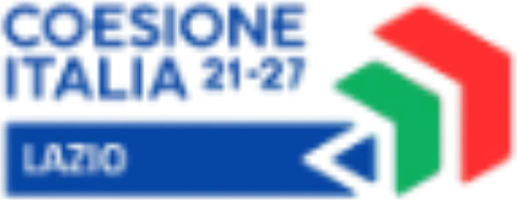
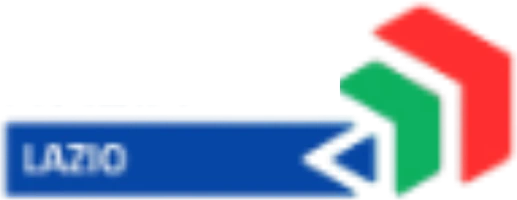
footer: i marchi FESR in negativo, senza pannello
Il pannello bianco era tecnicamente corretto e visivamente un cerotto: un
rettangolo bianco in fondo a una pagina scura. I marchi ora stanno
direttamente sul fondo, nelle versioni negative.

La premessa da cui ero partito era sbagliata. Guardando i quattro marchi uno
per uno sullo scuro, i marchi colorati si leggono tutti benissimo — la freccia
tricolore, la bandiera, l'emblema della Repubblica, l'ottagono del Lazio. A
sparire e' solo il lettering blu. Ed e' esattamente la parte che i kit
istituzionali forniscono in versione negativa.

scripts/fesr.mjs, `npm run fesr`, ricostruisce quelle versioni dal positivo.
Non tocca nessun colore dei marchi: porta al bianco solo le scritte, e
aggiunge alla bandiera europea il filo bianco che le sue regole chiedono su
fondo colorato.

I confini fra marchio e scritta sono misurati, non stimati. Le proporzioni a
occhio avevano gia' prodotto un puntino bianco sul bordo della freccia: ora il
confine e' il primo pixel rosso o verde, e lo stacco fra lettering e barra e'
la prima riga vuota.

Due cose scoperte misurando, che a occhio avrei sbagliato:
- la parola «LAZIO» dentro la barra blu non e' bianca, e' un buco a opacita'
  parziale: su carta il foglio la rende bianca, sullo scuro sparisce. Va
  composta sopra il bianco con la formula vera, non riempita con una soglia,
  o l'antialias si sgrana;
- concatenare trim e resize nella stessa pipeline sharp lascia decidere a
[…]

Changed region(s): [[0.0, 0.0, 0.619, 0.51], [0.619, 0.39, 0.6809, 0.48]]

diff --git a/src/styles/concept.css b/src/styles/concept.css
@@ -343,24 +343,18 @@ a.org__name:hover{color:var(--magenta)}
 /* Il pannello chiaro e' obbligato: i marchi istituzionali non si ricolorano,
    e sull'inchiostro il blu su nero non si legge. */
 /*
- * Il pannello chiaro e' obbligato: i marchi istituzionali non si ricolorano,
- * e sull'inchiostro il blu su nero non si legge.
+ * I marchi stanno direttamente sul fondo della pagina, senza pannello: sono
+ * nella versione negativa, con il lettering bianco, che e' quella prevista per
+ * i fondi scuri. Vedi scripts/fesr.mjs.
  *
- * I quattro marchi vanno a capo invece di stare per forza in fila: su un
- * telefono una fila sola li ridurrebbe a venti pixel d'altezza.
+ * Vanno a capo invece di stare per forza in fila: su un telefono una fila sola
+ * li ridurrebbe a venti pixel d'altezza.
  */
 .foot__fesr-loghi {
-  background: #FFFFFF;
-  border-radius: 6px;
-  padding: clamp(14px, 1.6vw, 20px) clamp(16px, 1.8vw, 26px);
-  /* Il pannello aderisce ai marchi invece di stendersi: bianco vuoto a destra
-     dei loghi sembrerebbe un errore di impaginazione. */
-  width: fit-content;
-  max-width: 100%;
   display: flex;
   flex-wrap: wrap;
   align-items: center;
-  gap: clamp(16px, 2.4vw, 34px);
+  gap: clamp(20px, 2.8vw, 40px);
 }
 .foot__fesr-loghi img {
   /* Stessa altezza per tutti: cosi' l'emblema europeo non e' mai piu' piccolo
@@ -372,7 +366,9 @@ a.org__name:hover{color:var(--magenta)}
 }
 
 .foot__fesr-testo {
-  margin: 16px 0 0;
+  /* Senza il bordo del pannello a fare da stacco, la frase ha bisogno di piu'
+     aria sotto i marchi, o sembra attaccata all'ultimo. */
+  margin: clamp(20px, 2.4vw, 28px) 0 0;
   max-width: 68ch;
   font-size: 13px;
   line-height: 1.55;

diff --git a/src/assets/fesr/README.md b/src/assets/fesr/README.md
@@ -1,7 +1,9 @@
 # Marchi della visibilità FESR
 
-Quattro file, uno per marchio, nel footer di ogni pagina. L'ordine in pagina è
-quello alfabetico dei nomi, che è anche quello del documento originale.
+Quattro file, uno per marchio, nel footer di ogni pagina. **Sono le versioni
+negative**: lettering bianco, per il fondo scuro del sito. Si rigenerano con
+`npm run fesr`, che li ricava dal file consegnato in
+`brand/fesr/loghi-fesr-originale.png`. Non vanno modificati a mano.
 
 | | |
 |---|---|
@@ -10,39 +12,62 @@ quello alfabetico dei nomi, che è anche quello del documento originale.
 | `03-repubblica-italiana.webp` | Repubblica Italiana |
 | `04-regione-lazio.webp` | Regione Lazio |
 
-## Perché quattro file e non la striscia originale
+## Perché non la striscia originale
 
-Il file consegnato, in `brand/fesr/loghi-fesr-originale.png`, è una striscia
-unica con i quattro marchi in fila e la frase già composta dentro
-l'immagine. Non va bene per una pagina web, per due motivi:
+Il file consegnato è una striscia unica con i quattro marchi in fila e la
+frase già composta dentro l'immagine. Due cose non andavano:
 
-- la striscia è in **15,7:1**: su un telefono largo 390px starebbe in venti
+- la striscia è in **15,7:1**. Su un telefono largo 390px starebbe in venti
   pixel d'altezza e l'emblema europeo non si leggerebbe. Separati, i marchi
   vanno a capo e restano leggibili;
-- la frase cotta dentro il PNG è in un carattere che non è quello della
-  landing, e non si può selezionare, tradurre o leggere con uno screen reader.
-  In pagina è testo vero, da `footer.fesr` nei dizionari.
+- la frase cotta dentro il PNG è in un carattere estraneo alla landing, non si
+  seleziona, non si traduce e uno screen reader non la vede. In pagina è testo
+  vero, da `footer.fesr` nei dizionari.
 
-## Come sono stati ricavati
+## Perché la versione negativa
 
-Dalla striscia originale, ritagliando la banda dei marchi (y 1481–1763 nel
-PNG a 6000x3375), poi ogni marchio per la sua colonna, rifilato sul contenuto
-e portato a 200px di altezza. In pagina sono tutti alla **stessa altezza**:
-è il modo standard di allineare marchi diversi, e tiene l'emblema europeo
-grande quanto gli altri.
+Sul fondo scuro i **marchi colorati si leggono benissimo**: la freccia
+tricolore, la bandiera, l'emblema della Repubblica, l'ottagono del Lazio. A
+sparire è solo il **lettering blu**, che su quasi nero diventa invisibile. La
+versione negativa, bianca, è quella che i kit istituzionali prevedono proprio
+per questo caso.
 
-## Cosa non si può fare
+Il primo tentativo era stato mettere i positivi su un pannello bianco. Tecnicamente
+corretto, visivamente un cerotto: un rettangolo bianco in fondo a una pagina
+scura. Il negativo è la strada giusta.
 
-I marchi istituzionali **non si ricolorano e non si invertono**. Per questo
-stanno su un pannello bianco invece che direttamente sul fondo scuro del
-footer: sull'inchiostro «COESIONE ITALIA» e «REGIONE LAZIO» sono blu scuro su
-quasi nero e spariscono.
+## Cosa lo script tocca e cosa no
+
+**Non tocca nessun colore dei marchi.** Cambia solo il colore delle scritte e
+aggiunge alla bandiera europea il filo bianco che le sue regole chiedono quando
+sta su un fondo colorato (spessore: un venticinquesimo dell'altezza).
+
+Tre casi particolari, tutti **misurati** dallo script e non stimati a occhio —
+le proporzioni a occhio avevano già prodotto un puntino bianco sul bordo della
+freccia tricolore:
+
+- **Coesione Italia**: il confine con la freccia è il primo pixel rosso o
+  verde; lo stacco fra lettering e barra è la prima riga vuota.
+- **Unione europea** e **Regione Lazio**: il confine fra marchio e scritta è
+  lo stacco fra le due bande di contenuto.
+- La parola «LAZIO» dentro la barra blu **non è bianca**: è un buco a opacità
+  parziale, che su carta il foglio rende bianco e su fondo scuro sparisce. Lo
+  script compone quella zona sopra il bianco, con la formula vera e non con
+  una soglia, così l'antialias resta pulito.
+
+**Repubblica Italiana non viene toccato**: l'emblema è già leggibile sullo
+scuro così com'è.
 
 ## Da verificare con Lazio Innova
 
-La dimensione minima dell'emblema europeo. Il regolamento parla di un emblema
-«ben visibile» e, per i siti web, non più piccolo del più grande degli altri
-loghi presenti. In pagina i marchi sono alti 30–40px, mentre i loghi dei
-promotori nella sezione «Un programma di» arrivano a 88px. Se la
-rendicontazione chiede una proporzione diversa, qui si cambia una riga di
-`height` in `concept.css`.
+Due cose, entrambe fuori dalla mia portata:
+
+1. **La versione negativa ufficiale.** Quella in uso è ricostruita dal
+   positivo. I kit di visibilità la contengono quasi sempre: se arriva, si
+   sostituiscono i quattro file e si può togliere la ricostruzione dallo
+   script.
+2. **La dimensione minima dell'emblema europeo.** Il regolamento chiede un
+   emblema «ben visibile» e, per i siti, non più piccolo del più grande degli
+   altri loghi presenti. Qui i marchi sono alti 30–40px, mentre i loghi dei
+   promotori nella sezione «Un programma di» arrivano a 88px. Si cambia la
+   riga `height` di `.foot__fesr-loghi img` in `concept.css`.

diff --git a/CLAUDE.md b/CLAUDE.md
@@ -28,8 +28,10 @@ Una pagina di attrazione, non una pagina informativa. La candidatura e il regola
    Italia, Unione europea, Repubblica Italiana, Regione Lazio — e la formula
    «Cofinanziato dall'Unione europea, PR FESR Lazio 2021–2027, attraverso Lazio
    Innova (LAZIO Venture 2)». La formula non si riscrive: è quella del
-   programma. I marchi non si ricolorano né si invertono, per questo stanno su
-   un pannello bianco. Dettagli e cosa resta da verificare in
+   programma. I marchi stanno **direttamente sul fondo scuro**, nelle versioni
+   negative generate da `npm run fesr`: niente pannello bianco, che era un
+   cerotto. Dei marchi non si cambia nessun colore — solo le scritte passano
+   al bianco. Dettagli e cosa resta da verificare in
    `src/assets/fesr/README.md`.
    Resta valido che **il nome «Venture Tech Lazio» non compare**, per la
    richiesta del 14 settembre: il footer nomina Lazio Innova e LAZIO Venture 2,
